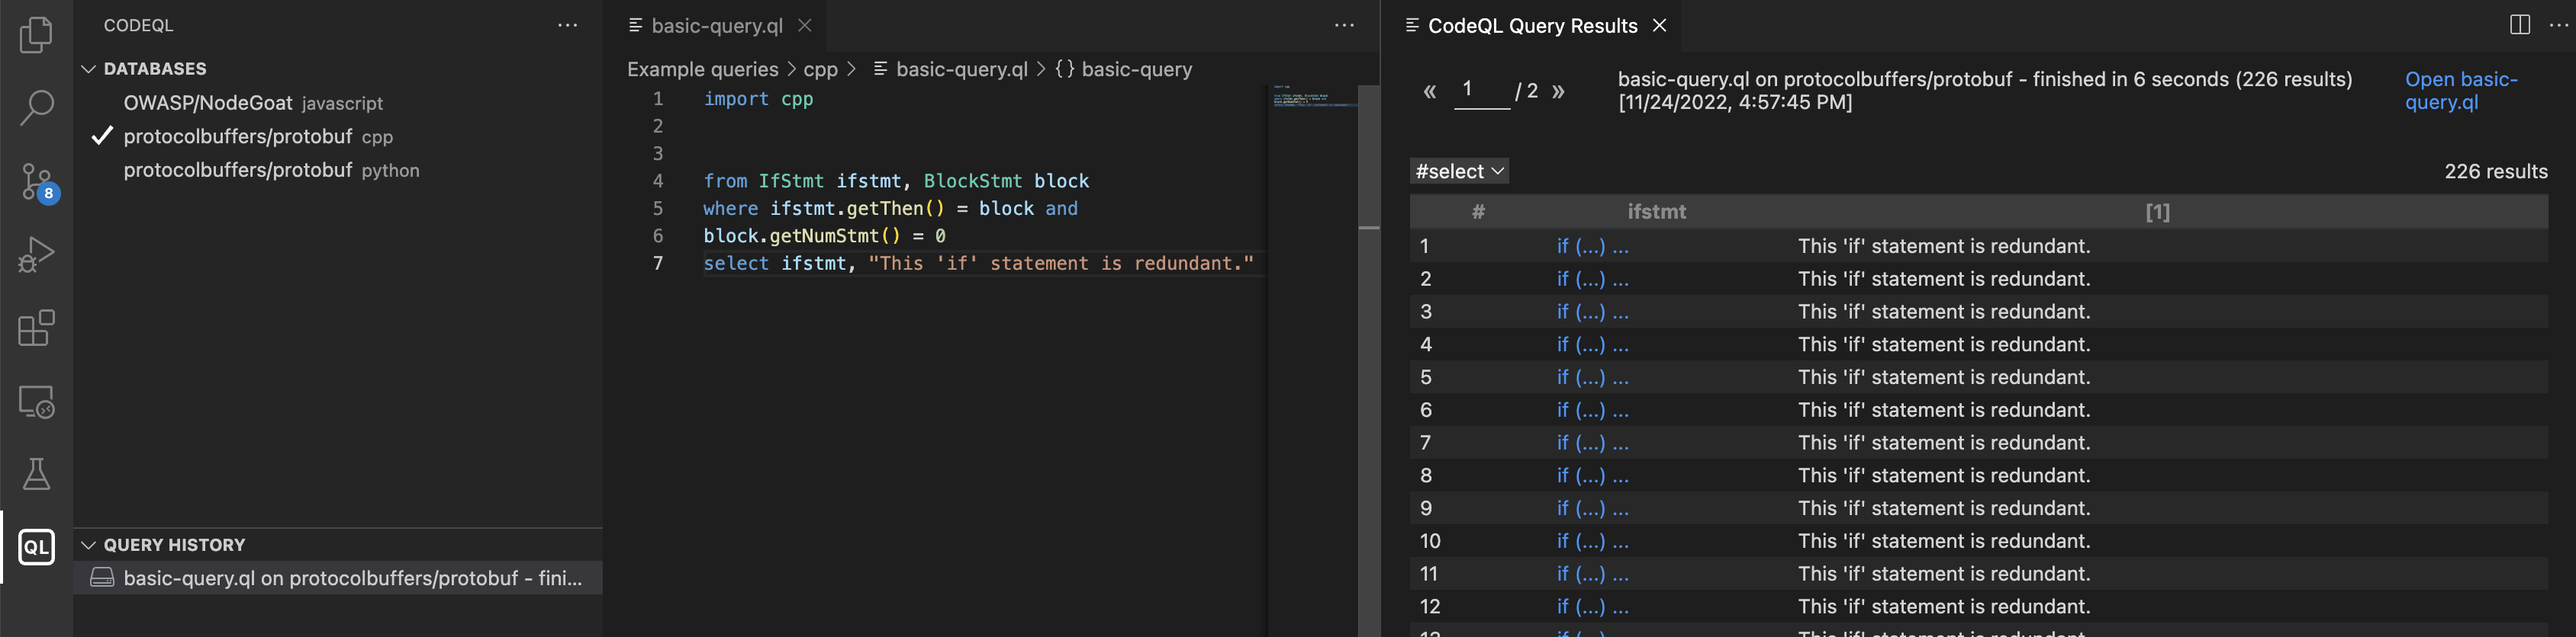
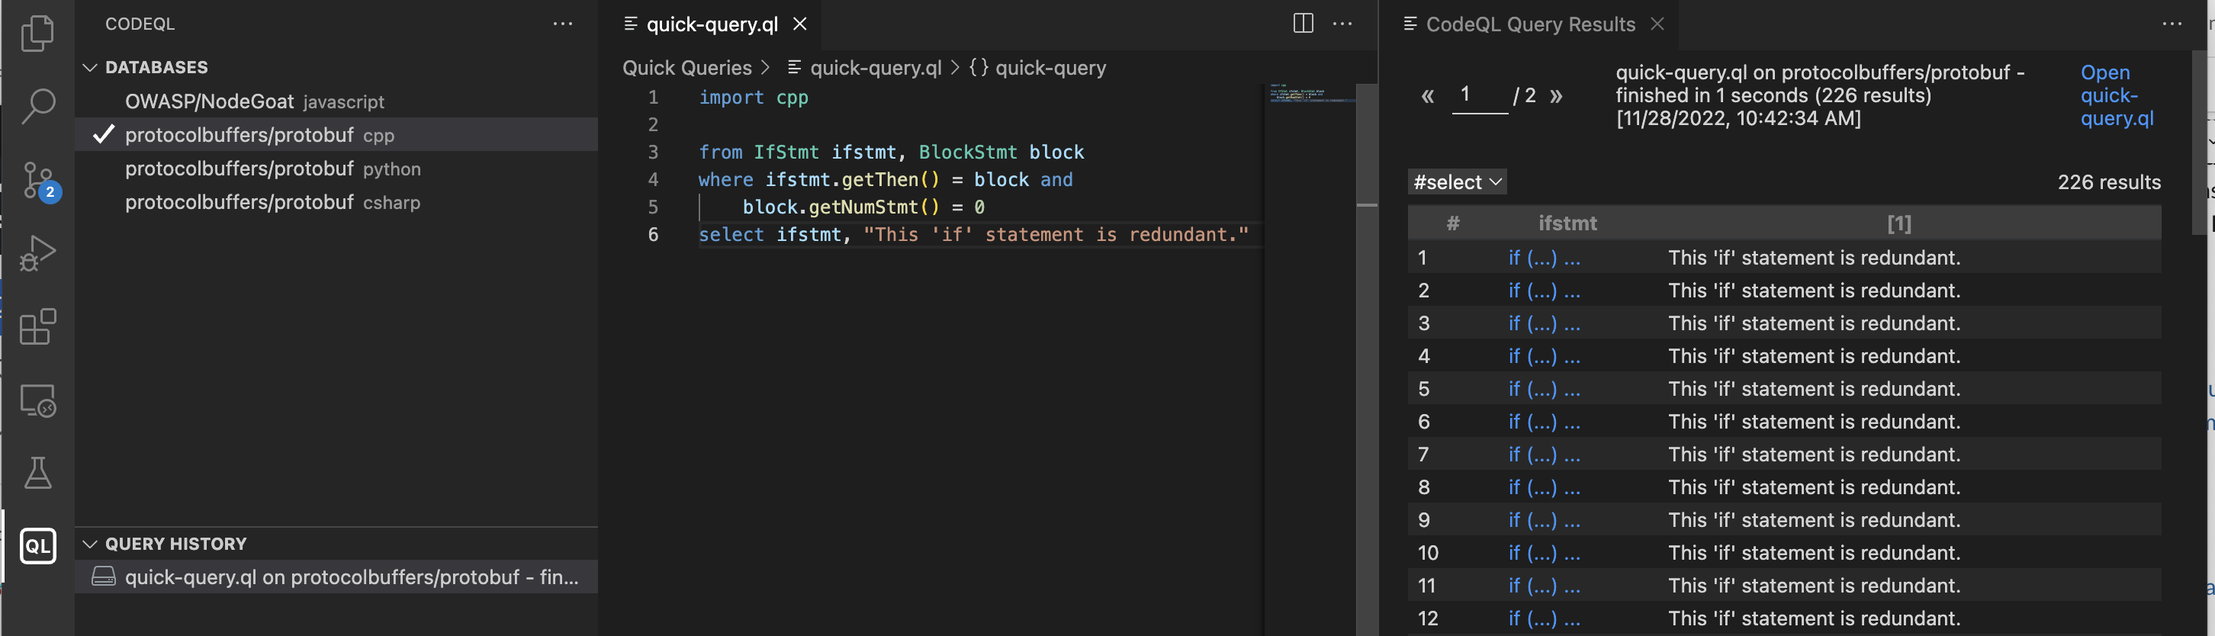
Update for James' review comments
(cherry picked from commit 174fbf672fe9cb1ee6d07869ce5944478b44caed)

diff --git a/docs/codeql/codeql-language-guides/basic-query-for-cpp-code.rst b/docs/codeql/codeql-language-guides/basic-query-for-cpp-code.rst
@@ -19,48 +19,44 @@ The query we're going to run performs a basic search of the code for ``if`` stat
 Finding a CodeQL database to experiment with
 --------------------------------------------
 
-Before you start writing queries, you need a CodeQL database to run them against. The simplest way to do this is to download a database directly from GitHub.com.
+Before you start writing queries for C or C++ code, you need a CodeQL database to run them against. The simplest way to do this is to download a database for a repository that uses C or C++ directly from GitHub.com.
 
 #. In Visual Studio Code, click the **QL** icon |codeql-ext-icon| in the left sidebar to display the CodeQL extension. 
 
 #. Click **From GitHub** or the GitHub logo |github-db| at the top of the CodeQL extension to open an entry field.
 
-#. Copy the URL for the repository into the field and press the keyboard **Enter** key.
+#. Copy the URL for the repository into the field and press the keyboard **Enter** key. For example, https://github.com/protocolbuffers/protobuf.
 
-#. Optionally, if the repository has more than one CodeQL database available, choose which language to download.
+#. Optionally, if the repository has more than one CodeQL database available, select ``cpp`` to download the database created from the C and/or C++ code. 
 
-Information about the progress of the database download is shown in the bottom right corner of Visual Studio Code. When the download is complete, the database is shown with a check mark in the **Databases** section of the CodeQL extension.
+Information about the download progress for the database is shown in the bottom right corner of Visual Studio Code. When the download is complete, the database is shown with a check mark in the **Databases** section of the CodeQL extension.
 
 .. image:: ../images/codeql-for-visual-studio-code/database-selected.png
        :align: center
        :width: 500
 
-Running the query
------------------
+Running a quick query
+---------------------
 
-#. In Visual Studio Code, create a new folder to store your experimental queries for C and C++ CodeQL databases. For example, ``cpp-experiments``.
+The CodeQL extension for Visual Studio Code adds several **CodeQL:** commands to the command palette including **Quick Query**, which you can use to run a query without any set up.
 
-#. Create a ``qlpack.yml`` file in your experiments folder with the contents shown below. This tells the CodeQL extension that any queries you create in the folder are intended to run on C or C++ CodeQL databases.
+#. From the command palette in Visual Studio Code, select **CodeQL: Quick Query**.
 
-   .. code-block:: yaml
+#. After a momment, a new tab *quick-query.ql* is opened, ready for you to write a query for your currently selected CodeQL database (here a ``cpp`` database).
 
-      name: github-owner/cpp-experiments
-      version: 0.0.1
-      dependencies:
-         codeql/cpp-all: ^0.1.2
+   .. image:: ../images/codeql-for-visual-studio-code/quick-query-tab.png
+       :align: center
 
-#. Create a second new file in your experiements folder with the ``.ql`` file extension. You will write your first query in this file.
-
-#. Copy the following query into the new file and save the file:
+#. In the quick query tab, delete ``select ""`` and paste the following query beneath the import statement ``import cpp``.
 
    .. code-block:: ql
-
-      import cpp
 
       from IfStmt ifstmt, BlockStmt block
       where ifstmt.getThen() = block and
         block.getNumStmt() = 0
       select ifstmt, "This 'if' statement is redundant."
+
+#. Save the query in its default location (a temporary "Quick Queries" directory under the workspace for ``GitHub.vscode-codeql/quick-queries``).
 
 #. Right-click in the query window and select **CodeQL: Run Query**. (Alternatively, run the command from the Command Palette.)
 
@@ -75,6 +71,12 @@ If any matching code is found, click a link in the ``ifstmt`` column to open the
 
 .. image:: ../images/codeql-for-visual-studio-code/basic-cpp-query-results-2.png
     :align: center
+
+.. pull-quote::
+
+   Note
+
+   If you want to move your experimental query somewhere more permanent, you need to move the whole ``Quick Queries`` directory. The directory is a CodeQL pack with a ``qlpack.yml`` file that defines the content as queries for C/C++ CodeQL databases. For more information about CodeQL packs, see ":ref:`Working with CodeQL packs in Visual Studio Code <working-with-codeql-packs-in-visual-studio-code>`."
 
 About the query structure
 ~~~~~~~~~~~~~~~~~~~~~~~~~
@@ -142,6 +144,24 @@ To exclude ``if`` statements that have an ``else`` branch:
 #. Re-run the query.
 
    There are now fewer results because ``if`` statements with an ``else`` branch are no longer reported.
+
+Saving your quick query for future development
+----------------------------------------------
+
+
+#. In Visual Studio Code, create a new folder to store your experimental queries for C and C++ CodeQL databases. For example, ``cpp-experiments``.
+
+#. Create a ``qlpack.yml`` file in your experiments folder with the contents shown below. This tells the CodeQL extension that any queries you create in the folder are intended to run on C or C++ CodeQL databases.
+
+   .. code-block:: yaml
+
+      name: github-owner/cpp-experiments
+      version: 0.0.1
+      dependencies:
+         codeql/cpp-all: ^0.1.2
+
+#. Create a second new file in your experiements folder with the ``.ql`` file extension. You will write your first query in this file.
+
 
 Further reading
 ---------------
